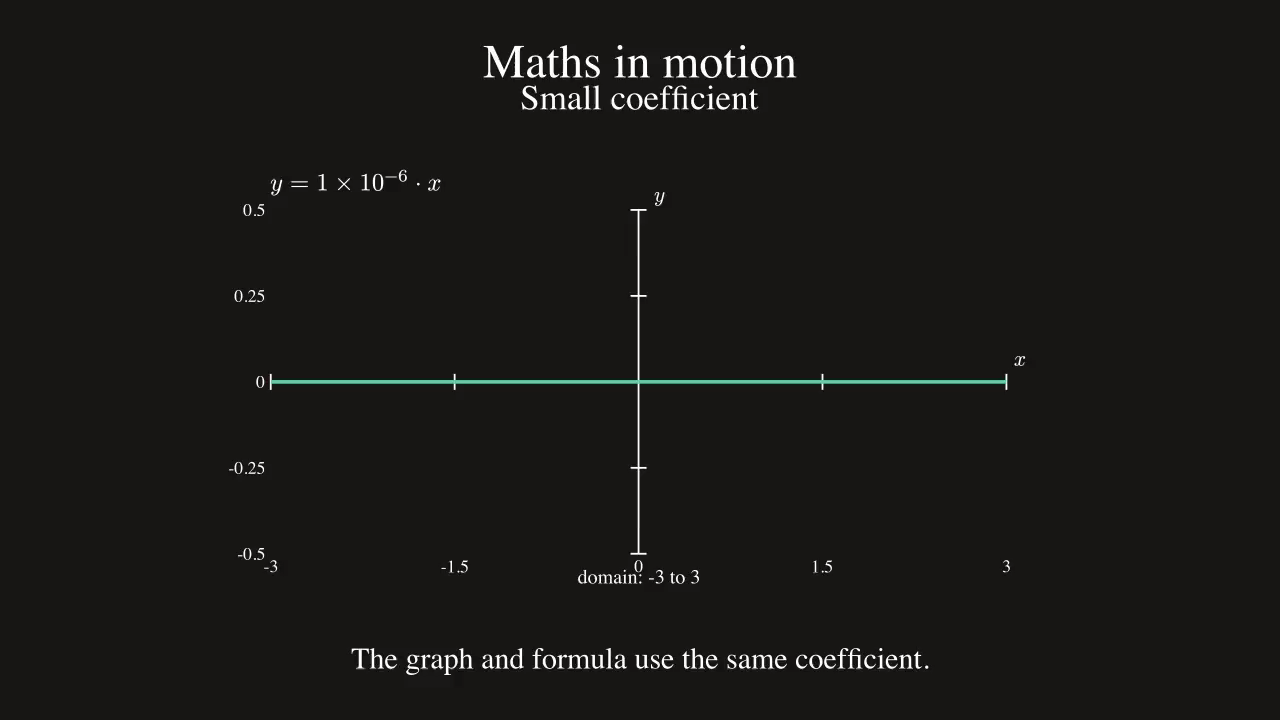
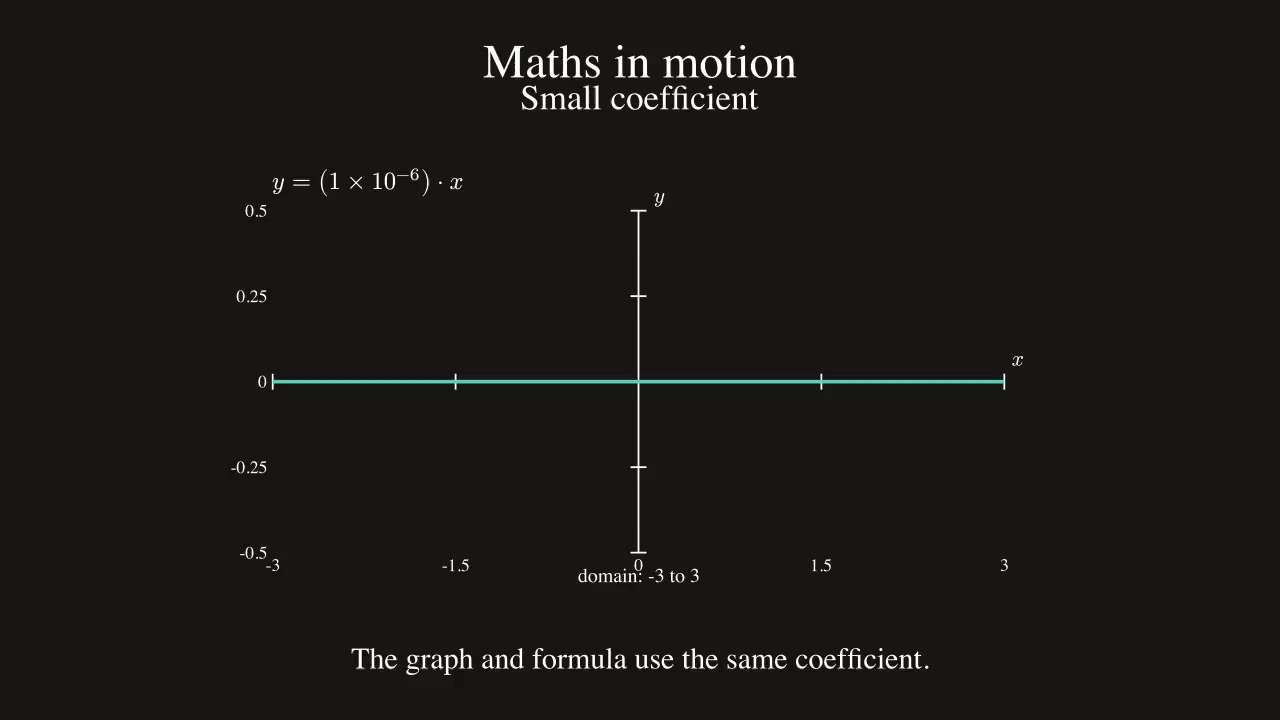
Complete trusted animation playback safeguards

diff --git a/ui/animation-studio.js b/ui/animation-studio.js
@@ -33,6 +33,8 @@
     && Object.keys(value).every((key) => keys.includes(key) && key !== "__proto__" && key !== "constructor" && key !== "prototype");
   const boundedText = (value, max, required = true) => typeof value === "string"
     && value.length <= max && (!required || value.trim().length > 0);
+  const boundedVisibleText = (value, max) => boundedText(value, max)
+    && !/[\p{Cc}\p{Cf}]/u.test(value) && /[\p{L}\p{N}\p{P}\p{S}]/u.test(value);
   const finite = (value, min, max) => typeof value === "number" && Number.isFinite(value) && value >= min && value <= max;
   const clone = (value) => JSON.parse(JSON.stringify(value));
   const safeId = (value) => typeof value === "string" && /^[a-z0-9][a-z0-9-]{0,79}$/.test(value);
@@ -90,7 +92,7 @@
         || !data.bounds.every((value) => finite(value, data.domain[0], data.domain[1])) || data.bounds[0] === data.bounds[1])) return "Integral bounds are invalid.";
     } else if (scene.kind === "process") {
       if (!onlyKeys(data, ["steps", "active"]) || !Array.isArray(data.steps) || data.steps.length < 2 || data.steps.length > 8
-        || !data.steps.every((step) => boundedText(step, 120)) || !Number.isInteger(data.active)
+        || !data.steps.every((step) => boundedVisibleText(step, 120)) || !Number.isInteger(data.active)
         || data.active < 0 || data.active >= data.steps.length) return "Process scene is invalid.";
     } else if (scene.kind === "vector") {
       if (!onlyKeys(data, ["x", "y", "label"]) || !finite(data.x, -1000, 1000) || !finite(data.y, -1000, 1000)
@@ -368,6 +370,8 @@
     if (mime !== "video/mp4") throw new Error("The offline renderer returned an unexpected file type.");
     const blob = await response.blob();
     if (!blob.size) throw new Error("The offline renderer returned an empty video.");
+    if (typeof options.isCurrent === "function" && !options.isCurrent()) return { bytes: blob.size, mime, discarded: true };
+    if (options.download === false) return { bytes: blob.size, mime, blob };
     downloadBlob(blob, `${validated.project.id}-manim.mp4`);
     return { bytes: blob.size, mime };
   }
@@ -767,6 +771,8 @@
       this.project = result.project; this.projectRevision += 1; if (persist) saveProject(this.project); this.player?.destroy(); this.previewRoot.replaceChildren(); this.player = mountPlayer(this.previewRoot, this.project); this.projectActions.hidden = false; this.editor.hidden = false; this.renderProjectActions(); this.renderEditor(); this.options.onProject?.(this.project);
     }
     renderProjectActions() {
+      this.clearRenderedManimVideo();
+      this.manimAbort?.abort(); this.manimAbort = null;
       this.projectActions.replaceChildren();
       const save = button(text("animationSave"), "animation-primary"); save.addEventListener("click", () => { saveProject(this.project); this.error.textContent = text("animationSaved"); });
       const projectExport = button(text("animationExport")); projectExport.addEventListener("click", () => exportProject(this.project));
@@ -778,7 +784,9 @@
       const revisionNow = () => this.projectRevision;
       requestManimSourceRevision(sourceProject, sourceRevision, revisionNow, { signal: this.sourceAbort.signal }).then((generated) => { if (!this.destroyed && this.projectRevision === sourceRevision) { this.manimSource = generated; this.manimSourceRevision = sourceRevision; manimCode.textContent = generated.source; } }).catch((error) => { if (error.name !== "AbortError" && !this.destroyed && this.projectRevision === sourceRevision) manimCode.textContent = `${text("animationManimSourceUnavailable")} ${error.message}`; });
       const sourceDownload = button(text("animationDownloadManimSource")); sourceDownload.addEventListener("click", async () => { sourceDownload.disabled = true; try { const generated = this.manimSourceRevision === sourceRevision ? this.manimSource : await requestManimSourceRevision(sourceProject, sourceRevision, revisionNow); if (!generated || this.projectRevision !== sourceRevision) return; this.manimSource = generated; this.manimSourceRevision = sourceRevision; manimCode.textContent = generated.source; await downloadManimSource(sourceProject, { generated }); this.error.textContent = text("animationManimSourceReady"); } catch (error) { if (error.name !== "AbortError") this.error.textContent = error.message; } finally { sourceDownload.disabled = false; } }); this.projectActions.append(sourceDownload);
-      const manimVideo = button(text("animationRenderManimVideo"), "animation-primary"); manimVideo.addEventListener("click", async () => { manimVideo.disabled = true; this.manimAbort?.abort(); this.manimAbort = new AbortController(); this.error.textContent = text("animationRenderingManimVideo"); try { await exportManimVideo(this.project, { signal: this.manimAbort.signal }); this.error.textContent = text("animationManimVideoReady"); } catch (error) { if (error.name !== "AbortError") this.error.textContent = error.message; } finally { manimVideo.disabled = false; this.manimAbort = null; } }); this.projectActions.append(manimVideo);
+      const renderedVideo = document.createElement("video"); renderedVideo.className = "animation-rendered-video"; renderedVideo.controls = true; renderedVideo.playsInline = true; renderedVideo.preload = "metadata"; renderedVideo.hidden = true; renderedVideo.setAttribute("aria-label", text("animationManimVideoReady")); this.renderedManimVideo = renderedVideo; this.projectActions.append(renderedVideo);
+      const downloadRendered = button(text("animationDownloadRenderedManimVideo")); downloadRendered.hidden = true; downloadRendered.addEventListener("click", () => { if (this.manimVideoBlob && this.manimVideoRevision === this.projectRevision) downloadBlob(this.manimVideoBlob, `${this.project.id}-manim.mp4`); }); this.projectActions.append(downloadRendered);
+      const manimVideo = button(text("animationRenderManimVideo"), "animation-primary"); manimVideo.addEventListener("click", async () => { manimVideo.disabled = true; this.manimAbort?.abort(); const renderAbort = new AbortController(); const renderRevision = this.projectRevision; const renderProject = clone(this.project); const isCurrent = () => !this.destroyed && this.projectRevision === renderRevision && this.manimAbort === renderAbort; this.manimAbort = renderAbort; this.error.textContent = text("animationRenderingManimVideo"); try { const result = await exportManimVideo(renderProject, { signal: renderAbort.signal, isCurrent, download: false }); if (isCurrent() && !result.discarded) { this.clearRenderedManimVideo({ keepElement: true }); this.manimVideoBlob = result.blob; this.manimVideoRevision = renderRevision; this.manimVideoUrl = URL.createObjectURL(result.blob); renderedVideo.src = this.manimVideoUrl; renderedVideo.hidden = false; renderedVideo.load(); downloadRendered.hidden = false; this.error.textContent = text("animationManimVideoReady"); } } catch (error) { if (error.name !== "AbortError" && isCurrent()) this.error.textContent = error.message; } finally { manimVideo.disabled = false; if (this.manimAbort === renderAbort) this.manimAbort = null; } }); this.projectActions.append(manimVideo);
       const capability = videoCapability();
       if (capability.supported) { const video = button(text("animationDownloadVideo")); video.addEventListener("click", async () => { video.disabled = true; this.exportAbort?.abort(); this.exportAbort = new AbortController(); this.error.textContent = text("animationEncodingVideo"); try { await exportVideo(this.project, (progress) => { this.error.textContent = text("animationEncodingProgress", { percent: Math.round(progress * 100) }); }, { signal: this.exportAbort.signal }); this.error.textContent = text("animationVideoReady"); } catch (error) { this.error.textContent = error.message; } finally { video.disabled = false; this.exportAbort = null; } }); this.projectActions.append(video); }
       else { const note = document.createElement("p"); note.className = "animation-export-note"; note.textContent = text("animationVideoUnavailable"); this.projectActions.append(note); }
@@ -795,13 +803,14 @@
       });
     }
     moveScene(index, delta) { const target = index + delta; if (target < 0 || target >= this.project.scenes.length) return; const updated = clone(this.project); [updated.scenes[index], updated.scenes[target]] = [updated.scenes[target], updated.scenes[index]]; updated.updated_at = new Date().toISOString(); this.project = saveProject(updated); this.projectRevision += 1; this.player.updateProject(this.project); this.renderProjectActions(); this.renderEditor(); this.options.onProject?.(this.project); }
+    clearRenderedManimVideo({ keepElement = false } = {}) { this.renderedManimVideo?.pause?.(); if (this.renderedManimVideo) { this.renderedManimVideo.removeAttribute("src"); this.renderedManimVideo.load?.(); if (!keepElement) this.renderedManimVideo = null; } if (this.manimVideoUrl) URL.revokeObjectURL(this.manimVideoUrl); this.manimVideoUrl = null; this.manimVideoBlob = null; this.manimVideoRevision = null; }
     async importSelected() {
       const file = this.file.files?.[0]; this.file.value = ""; if (!file) return;
       if (file.size > MAX_PROJECT_BYTES) { this.error.textContent = text("animationImportTooLarge"); return; }
       const token = ++this.operationToken; this.clearTimers(); this.pendingProject = null; this.plannerAbort?.abort(); this.plannerAbort = null; this.generate.disabled = false; this.cancelGenerate.hidden = true; this.progress.hidden = true;
       try { const parsed = JSON.parse(await file.text()); if (this.destroyed || token !== this.operationToken) return; const result = validateProject(parsed); if (!result.ok) throw new Error(result.error); this.topic.value = result.project.topic; this.level.value = result.project.level; this.concept.value = result.project.title; this.requirements.value = result.project.summary; this.updatePrompt(); this.showProject(result.project, { persist: true }); this.error.textContent = text("animationImported"); } catch (error) { if (!this.destroyed && token === this.operationToken) this.error.textContent = `${text("animationImportFailed")} ${error.message}`; }
     }
-    destroy() { if (this.destroyed) return; this.destroyed = true; this.operationToken += 1; this.exportAbort?.abort(); this.plannerAbort?.abort(); this.sourceAbort?.abort(); this.manimAbort?.abort(); this.clearTimers(); this.player?.destroy(); mounted.delete(this); }
+    destroy() { if (this.destroyed) return; this.destroyed = true; this.operationToken += 1; this.exportAbort?.abort(); this.plannerAbort?.abort(); this.sourceAbort?.abort(); this.manimAbort?.abort(); this.clearRenderedManimVideo(); this.clearTimers(); this.player?.destroy(); mounted.delete(this); }
   }
 
   function mountStudio(root, options = {}) { return new Studio(root, options); }

diff --git a/ui/tests/animation_studio.test.js b/ui/tests/animation_studio.test.js
@@ -207,6 +207,45 @@ test("trusted render endpoints fail closed on invalid files and empty video", as
   );
 });
 
+test("a stale same-ID Manim render is discarded before download", async () => {
+  const project = plan("Explain 3/4", "early-primary");
+  let current = true;
+  let clicks = 0;
+  const originalDocument = global.document; const originalCreate = URL.createObjectURL; const originalRevoke = URL.revokeObjectURL;
+  global.document = { body: { appendChild() {} }, createElement: () => ({ click() { clicks += 1; }, remove() {} }) };
+  URL.createObjectURL = () => "blob:stale"; URL.revokeObjectURL = () => {};
+  try {
+    const result = await animator.exportManimVideo(project, {
+      isCurrent: () => current,
+      fetchImpl: async () => ({
+        ok: true,
+        headers: { get: () => "video/mp4" },
+        blob: async () => { current = false; return new Blob(["old video"]); },
+      }),
+    });
+    assert.equal(result.discarded, true);
+    assert.equal(clicks, 0);
+  } finally { global.document = originalDocument; URL.createObjectURL = originalCreate; URL.revokeObjectURL = originalRevoke; }
+});
+
+test("Studio Manim rendering can return an inline MP4 blob without forced download", async () => {
+  const project = plan("Explain 3/4", "early-primary");
+  let clicks = 0;
+  const originalDocument = global.document; const originalCreate = URL.createObjectURL; const originalRevoke = URL.revokeObjectURL;
+  global.document = { body: { appendChild() {} }, createElement: () => ({ click() { clicks += 1; }, remove() {} }) };
+  URL.createObjectURL = () => "blob:inline"; URL.revokeObjectURL = () => {};
+  try {
+    const result = await animator.exportManimVideo(project, {
+      download: false,
+      isCurrent: () => true,
+      fetchImpl: async () => ({ ok: true, headers: { get: () => "video/mp4" }, blob: async () => new Blob(["video"]) }),
+    });
+    assert.ok(result.blob instanceof Blob);
+    assert.equal(result.mime, "video/mp4");
+    assert.equal(clicks, 0);
+  } finally { global.document = originalDocument; URL.createObjectURL = originalCreate; URL.revokeObjectURL = originalRevoke; }
+});
+
 test("Manim source requests reject stale same-ID revisions and preserve edited scene order", async () => {
   const original = plan("Explain 3/4", "early-primary");
   const edited = structuredClone(original);
@@ -242,6 +281,14 @@ test("strict schema rejects unknown fields, invalid dimensions, and over-budget 
   assert.equal(animator.validateProject(invalid).ok, false);
   const long = structuredClone(project); long.scenes = Array.from({ length: 10 }, (_, index) => ({ ...structuredClone(project.scenes[0]), id: `long-${index}`, duration_ms: 10000 }));
   assert.equal(animator.validateProject(long).ok, false);
+});
+
+test("process-step imports reject control format and invisible-only text", () => {
+  const project = plan("Photosynthesis", "secondary", "water enters -> glucose forms");
+  for (const step of ["A\u0000B", "\u200b", "\u2060", "\u0301", "   "]) {
+    const invalid = structuredClone(project); invalid.scenes[0].data.steps[0] = step;
+    assert.equal(animator.validateProject(invalid).ok, false, JSON.stringify(step));
+  }
 });
 
 test("source-shaped multilingual labels remain inert data", () => {
@@ -288,4 +335,8 @@ test("production module contains no executable source sink", () => {
   assert.doesNotMatch(source, /\.innerHTML\s*=/);
   assert.doesNotMatch(source, /document\.write\s*\(/);
   assert.doesNotMatch(source, /https?:\/\//);
+  assert.match(source, /renderedVideo\.controls = true/);
+  assert.match(source, /renderedVideo\.playsInline = true/);
+  assert.match(source, /URL\.revokeObjectURL\(this\.manimVideoUrl\)/);
+  assert.doesNotMatch(source, /renderedVideo\.autoplay/);
 });

diff --git a/ui/learning-platform.css b/ui/learning-platform.css
@@ -491,6 +491,8 @@
 .animation-project-source { flex: 1 1 100%; min-width: 0; border-top: 1px solid var(--border); }
 .animation-project-source summary { min-height: 44px; display: flex; align-items: center; cursor: pointer; color: var(--text); font-size: .72rem; font-weight: 750; }
 .animation-project-source pre { max-height: 240px; margin: 0; overflow: auto; white-space: pre-wrap; overflow-wrap: anywhere; color: var(--muted); font: 500 .68rem/1.5 ui-monospace, SFMono-Regular, Menlo, monospace; }
+.animation-rendered-video { flex: 1 1 100%; width: 100%; max-height: min(62vh, 32rem); border: 1px solid var(--border); border-radius: 12px; background: #181715; }
+.animation-rendered-video[hidden] { display: none; }
 .playground-animation-heading { margin-top: 30px; }
 .animation-library-card { display: grid; align-content: start; }
 .animation-library-card > p { min-height: 4.5em; }

diff --git a/ui/i18n.js b/ui/i18n.js
@@ -470,8 +470,9 @@
     "learning.animationManimSourceReady": "Manim scene code downloaded.",
     "learning.animationRenderManimVideo": "Render Manim video",
     "learning.animationRenderingManimVideo": "Rendering the lesson with offline Manim…",
-    "learning.animationManimVideoReady": "Manim video downloaded.",
+    "learning.animationManimVideoReady": "Manim video ready to play.",
     "learning.animationDownloadVideo": "Download video",
+    "learning.animationDownloadRenderedManimVideo": "Download rendered MP4",
     "learning.animationEncodingVideo": "Encoding a real video locally…",
     "learning.animationEncodingProgress": "Encoding video… {percent}%",
     "learning.animationVideoReady": "Video downloaded.",

diff --git a/orchestrator/tests/test_animation_render.py b/orchestrator/tests/test_animation_render.py
@@ -150,7 +150,18 @@ def test_long_copy_is_wrapped_without_scaling_short_process_labels_up() -> None:
     assert "scale_to_fit_width" not in source
 
 
-@pytest.mark.parametrize("step", ["x" * 121, "   ", "Line one\nLine two", "bad\x00step"])
+@pytest.mark.parametrize(
+    "step",
+    [
+        "x" * 121,
+        "   ",
+        "Line one\nLine two",
+        "bad\x00step",
+        "\u200b",
+        "\u2060",
+        "\u0301",
+    ],
+)
 def test_process_step_import_rejects_oversized_empty_or_control_text(step: str) -> None:
     with pytest.raises(ValidationError):
         _project(
@@ -404,9 +415,44 @@ def test_small_coefficients_use_unambiguous_scientific_typst_and_same_numeric_as
         "right": {"type": "variable", "name": "x"},
     }
     source = emit_manim_source(_project([_scene("small", "function", data)]))
-    assert "y = 1 times 10^(-6) dot x" in source
+    assert "y = (1 times 10^(-6)) dot x" in source
     assert "MathTypst('y = 1e-06" not in source
     assert "axes.c2p(1.0, 1e-06)" in source
+
+
+@pytest.mark.parametrize(
+    ("expression_text", "expression_ast", "expected"),
+    [
+        (
+            "x^0.000001",
+            {
+                "type": "binary",
+                "op": "^",
+                "left": {"type": "variable", "name": "x"},
+                "right": {"type": "number", "value": 0.000001},
+            },
+            "y = x^(1 times 10^(-6))",
+        ),
+        (
+            "0.000001^x",
+            {
+                "type": "binary",
+                "op": "^",
+                "left": {"type": "number", "value": 0.000001},
+                "right": {"type": "variable", "name": "x"},
+            },
+            "y = (1 times 10^(-6))^x",
+        ),
+    ],
+)
+def test_scientific_typst_literals_stay_grouped_in_powers(
+    expression_text: str, expression_ast: dict, expected: str
+) -> None:
+    data = _function()
+    data["expression_text"] = expression_text
+    data["expression_ast"] = expression_ast
+    source = emit_manim_source(_project([_scene("power", "function", data)]))
+    assert f"MathTypst('{expected}'" in source
 
 
 def test_worker_dispatch_strips_fixed_mode_before_exec(monkeypatch, tmp_path: Path) -> None:

diff --git a/contracts/tests/test_contract_smoke.py b/contracts/tests/test_contract_smoke.py
@@ -149,7 +149,8 @@ def test_request_id_is_echoed_or_minted():
     assert r2.headers.get("X-Request-ID")
 
 
-def test_animation_source_rejects_oversized_process_step_at_api_boundary():
+@pytest.mark.parametrize("step", ["x" * 121, "A\u0000B", "\u200b", "\u2060", "\u0301", "   "])
+def test_animation_source_rejects_non_visible_process_step_at_api_boundary(step: str):
     project = {
         "version": 1,
         "kind": "lesson-animation",
@@ -167,7 +168,7 @@ def test_animation_source_rejects_oversized_process_step_at_api_boundary():
                 "title": "Process",
                 "narration": "Follow each step.",
                 "duration_ms": 900,
-                "data": {"steps": ["x" * 121, "Finish safely"], "active": 0},
+                "data": {"steps": [step, "Finish safely"], "active": 0},
             }
         ],
     }
@@ -177,7 +178,7 @@ def test_animation_source_rejects_oversized_process_step_at_api_boundary():
         json={"project": project},
     )
     assert response.status_code == 422
-    assert response.json()["detail"][0]["loc"][-2:] == ["steps", 0]
+    assert "steps" in response.json()["detail"][0]["loc"]
 
 
 def test_ready_shape():

diff --git a/contracts/models.py b/contracts/models.py
@@ -326,8 +326,11 @@ class AnimationProcessData(BaseModel):
             value = value.strip()
             if not value:
                 raise ValueError("process steps must contain visible text")
-            if any(unicodedata.category(character) == "Cc" for character in value):
-                raise ValueError("process steps cannot contain control characters")
+            categories = [unicodedata.category(character) for character in value]
+            if any(category in {"Cc", "Cf"} for category in categories):
+                raise ValueError("process steps cannot contain control or format characters")
+            if not any(category[0] in {"L", "N", "P", "S"} for category in categories):
+                raise ValueError("process steps must contain a visible base character")
             normalized.append(value)
         return normalized
 

diff --git a/orchestrator/gateway/animation_render.py b/orchestrator/gateway/animation_render.py
@@ -96,7 +96,7 @@ def _expression_typst(
         if "e" not in rendered.lower():
             return rendered
         mantissa, exponent = rendered.lower().split("e", maxsplit=1)
-        return f"{mantissa} times 10^({int(exponent)})"
+        return f"({mantissa} times 10^({int(exponent)}))"
 
     def compile_node(value: dict[str, Any], level: int) -> tuple[str, int, str]:
         budget[0] += 1

diff --git a/docs/qa/animation-studio-manim-report.md b/docs/qa/animation-studio-manim-report.md
@@ -26,16 +26,21 @@ derivative/tangent, and definite-integral scenes. The browser generated the same
 
 Final automated gates after the review fixes:
 
-- Python: 2,375 tests collected; the full default suite reached 100% with expected platform skips
+- Python: 2,385 tests collected; the full default suite reached 100% with expected platform skips
   and zero failures.
-- Browser modules: 184/184 Node tests passed, including same-ID edit/reorder source races.
+- Browser modules: 187/187 Node tests passed, including same-ID edit/reorder source and render races.
 - Rust/Tauri: 12/12 launcher tests passed after a clean rebuild with temporary resource fixtures;
   the fixtures were removed after the run.
-- Focused planner/render/contract gate: 59/59 passed; Ruff and diff whitespace checks passed.
+- Focused planner/render/contract gate: 69/69 passed; Ruff and diff whitespace checks passed.
 - Real browser: desktop, 375 px portrait, and phone landscape screenshots; real authenticated
-  trusted-source and MP4 requests; zero console errors. The captures are
+  trusted-source and MP4 requests; zero console errors. The rendered H.264 MP4 was decoded and
+  played inside Muta with native controls and no autoplay. Its time scrubber appeared, the playback
+  state advanced after Play, the explicit `Download rendered MP4` action remained distinct from
+  browser-native export, and the layout had no horizontal overflow. Applying a scene edit removed
+  the player and left zero blob video sources, proving stale playback was revoked. The captures are
   `animation-studio-desktop.png`, `animation-studio-mobile-375.png`, and
-  `animation-studio-landscape.png`.
+  `animation-studio-landscape.png`; `animation-studio-inline-mp4.png` records the final in-app
+  playback state.
 
 ## Artifacts and hashes
 
@@ -45,7 +50,9 @@ Final automated gates after the review fixes:
[7 lines of base64/hex data omitted]
 
 `ffprobe` result for the final MP4:
 
@@ -74,10 +81,16 @@ clipping.
 - Undefined curve samples become segment gaps rather than zero values.
 - Scientific-notation formula text is compiled from the same numeric typed AST used to sample its
   curve; exponent text is never passed through as an ambiguous literal such as `1e-06`.
-- Process labels are individually capped at 120 visible, non-control characters at the public
-  request/import boundary before Pango or source generation sees them.
+- Process labels are individually capped at 120 characters, reject Unicode control/format
+  characters, and require a letter, number, punctuation mark, or symbol at both browser import and
+  public request boundaries before Pango or source generation sees them.
 - Every saved project edit/reorder increments an in-memory revision, aborts the old source request,
   refreshes both disclosures, and rejects a late response even when the project ID is unchanged.
+- The same revision invalidates an in-flight Manim render before playback or download and prevents
+  an older completion handler from clearing the controller or status of a newer render.
+- Trusted MP4 object URLs are revoked on edit, regeneration, replacement, and teardown; the player
+  never autoplays, and its explicit rendered-MP4 download action cannot be confused with the browser
+  canvas encoder's separate fallback action.
 - A second concurrent render receives immediate busy admission instead of queueing.
 - Client cancellation and timeout terminate the complete worker process group.
 - Final output selection accepts exactly one `MutaLesson.mp4` outside Manim partial files.

diff --git a/docs/plans/2026-10-27-studio-animation-workspace.md b/docs/plans/2026-10-27-studio-animation-workspace.md
@@ -88,7 +88,10 @@ resources, plugins, shell expansion, or arbitrary scene name. Source generation 
 when Manim is not installed; rendering returns an explicit capability error.
 
 The browser shows the generated Manim source in an accessible disclosure, downloads it as `.py`,
-and requests a real MP4 from the bounded worker. The existing deterministic canvas player remains
+requests a real MP4 from the bounded worker, and exposes that result in an in-app HTML video player
+with native controls plus an explicitly named MP4 download action. A project revision change pauses
+the player, removes its source, and revokes its object URL before rebuilding the workspace. The
+existing deterministic canvas player remains
 the immediate preview and browser-native video export remains a fast fallback, but neither is
 misrepresented as the requested Manim render.
 
@@ -105,8 +108,9 @@ Runtime/package contract:
   may explicitly identify that frozen gateway/worker executable when packaging stages it elsewhere.
 - The gateway passes `--silent`, uses a fixed scene name and argument vector, selects only the final
   `MutaLesson.mp4`, and never accepts a caller-controlled command or output path.
-- Process labels are bounded to 120 visible, non-control characters at schema validation, matching
-  the browser and planner budgets before any text reaches source emission or Pango.
+- Process labels are bounded to 120 characters, reject Unicode control/format characters, and
+  require a visible base character at schema validation, matching the browser and planner budgets
+  before any text reaches source emission or Pango.
 - Production video uses Manim's fixed medium-quality profile (1280 × 720 at 30 fps); the browser
   canvas remains the immediate low-cost preview.
 - Formulae use Manim 0.22's offline `MathTypst`; numeric tick labels use inert `Text`, so the runtime
@@ -136,6 +140,11 @@ Runtime/package contract:
 - Editing or reordering a saved project refreshes both JSON and Manim-source disclosures. Source
   responses carry a local revision guard, so an older same-ID request cannot replace the current
   project source or be downloaded as if it matched the rendered video.
+- The same project revision guard aborts in-flight Manim requests and checks again after the video
+  blob arrives, so an old same-ID render cannot populate playback, download, or clear the controller
+  for a newer render.
+- A successful trusted render appears in-app with native play/pause, seek, volume, and platform
+  fullscreen controls and never autoplays; the separate download action is unambiguous.
 - Reduced-motion users do not receive automatic motion; hidden/offscreen previews stop scheduling frames.
 - Desktop, 375 px and 430 px portrait, and phone landscape layouts have no horizontal overflow or composer obstruction.
 - Light and dark themes preserve contrast and readable diagrams.
